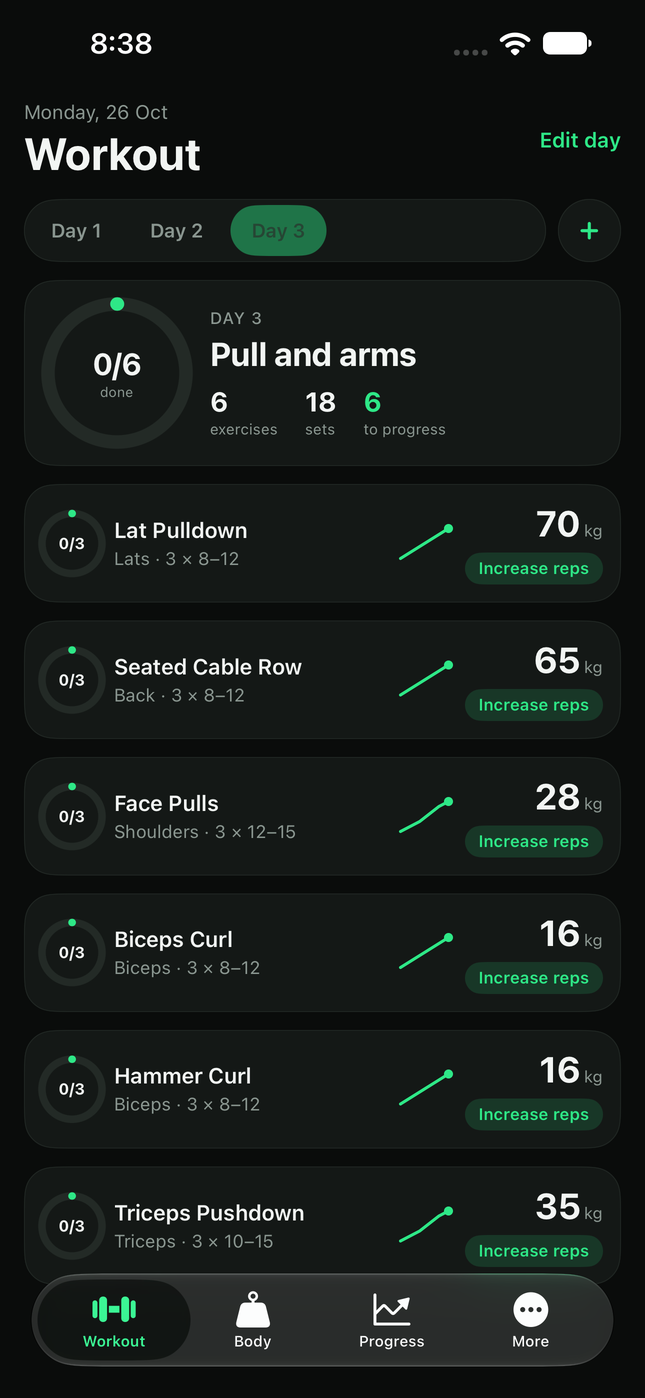
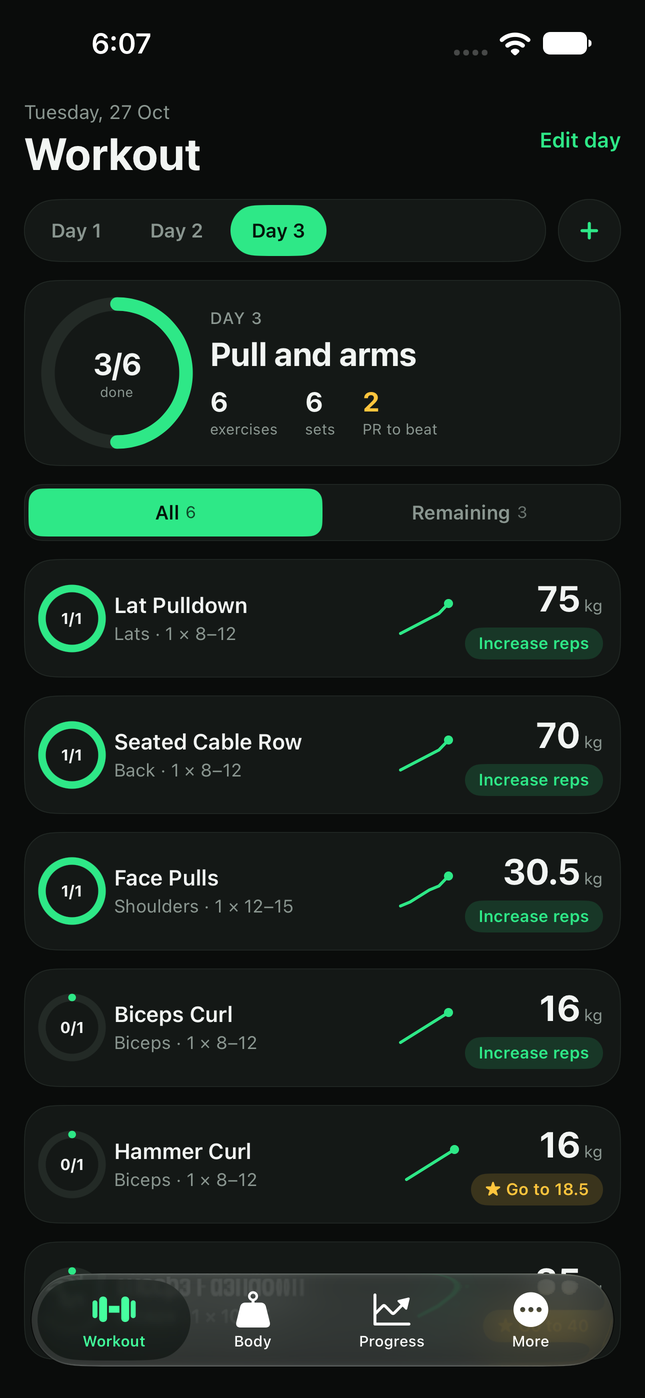
Rewrite the README with a quick start, usage, configuration and reference, and retake the screenshots
The screenshots show the current app (All / Remaining, PR banner, warm-ups, arrows, form question,
daily calories, percent from target), taken on an iPhone 15 Pro Max simulator with generated
sample data. A UI test drives the workout-flow screens so they can be retaken.

diff --git a/appUITests/ReadmeScreenshotsUITests.swift b/appUITests/ReadmeScreenshotsUITests.swift
@@ -1,0 +1,64 @@
+import XCTest
+
+/// Takes the workout-flow screenshots used in the README (the other screens come from `ScreenTourUITests`).
+/// It expects a sample database, not real data: copy one to /Users/Shared/fitness-ui-seed.sqlite and run
+///   xcodebuild test ... -only-testing:FitnessAppUITests/ReadmeScreenshotsUITests
+/// then export the attachments with: xcrun xcresulttool export attachments --path <bundle>.xcresult --output-path <dir>
+final class ReadmeScreenshotsUITests: XCTestCase {
+    private var app: XCUIApplication!
+
+    override func setUp() {
+        continueAfterFailure = false
+        app = XCUIApplication()
+        app.launchArguments = UITestSeed.launchArguments
+        app.launch()
+    }
+
+    private func snap(_ name: String) {
+        let attachment = XCTAttachment(screenshot: app.screenshot())
+        attachment.name = name
+        attachment.lifetime = .keepAlways
+        add(attachment)
+    }
+
+    func testWorkoutFlowScreens() {
+        XCTAssertTrue(app.buttons["day-3"].waitForExistence(timeout: 30))
+        app.buttons["day-3"].tap()
+        XCTAssertTrue(app.buttons["filter-remaining"].waitForExistence(timeout: 10))
+        sleep(1)
+        snap("r01-workout-all")
+
+        app.buttons["filter-remaining"].tap()
+        sleep(1)
+        snap("r02-workout-remaining")
+        app.buttons["filter-all"].tap()
+
+        let card = app.buttons["exercise-card-Triceps Pushdown"]
+        for _ in 0..<4 where !(card.exists && card.isHittable) { app.swipeUp() }
+        card.tap()
+        XCTAssertTrue(app.descendants(matching: .any)["pr-banner"].waitForExistence(timeout: 10))
+        sleep(1)
+        snap("r03-exercise-pr")
+
+        let addSet = app.buttons["add-set-button"]
+        for _ in 0..<8 where !addSet.isHittable { app.swipeUp() }
+        app.swipeUp()
+        snap("r04-exercise-log")
+
+        for _ in 0..<4 where !addSet.isHittable { app.swipeDown() }
+        addSet.tap()
+        XCTAssertTrue(app.textFields["weight-field"].waitForExistence(timeout: 5))
+        sleep(1)
+        snap("r05-add-set")
+
+        // The plan is 10 to 15 reps and the form starts at 13: two arrows reach the top of the range.
+        app.buttons["reps-field-plus"].tap()
+        app.buttons["reps-field-plus"].tap()
+        app.buttons["save-set-button"].tap()
+        XCTAssertTrue(app.buttons["form-yes"].waitForExistence(timeout: 10))
+        sleep(1)
+        snap("r06-form-question")
+        app.buttons["form-yes"].tap()
+        sleep(1)
+    }
+}

diff --git a/README.md b/README.md
@@ -1,41 +1,211 @@
-# Fitness app (iPhone, offline)
+# Offline Fitness Tracker for iPhone: workouts, PRs, body and calories
 
-An offline iPhone app that replaces a weekly "notes → spreadsheet → Python notebook → screenshot" routine.
-Log sets on the phone, get the next workout for each training day, track body weight, calories and measurements.
-Everything lives in one SQLite file on the phone. No account, no backend.
+![Platform](https://img.shields.io/badge/platform-iOS%2016%2B-black)
+![Swift](https://img.shields.io/badge/Swift-SwiftUI%20%2B%20SQLite-F05138)
+![Data](https://img.shields.io/badge/data-offline%2C%20one%20SQLite%20file-2ee887)
+![Backend](https://img.shields.io/badge/backend-none-lightgrey)
 
-**Features:** workout per day with working weight, an All / Remaining filter, main and warm-up sets and a progression recommendation; PRs (top of the rep range with a clean-form check) shown in gold with the next weight worked out from the estimated 1RM; exercise screen with the aim, a best-set line chart and inline set logging; muscle diagram showing which muscles an exercise trains (automatic, editable per exercise); deload mode (display only) and an option to ignore deload sessions in progress; plan and exercise-library editing; calorie target with macros; measurement progress (direction-aware); volume per muscle; database import, export and upgrade.
+> An offline iPhone app that replaces a weekly "notes → spreadsheet → Python notebook → screenshot" routine: log sets on the phone, get the next weight for every exercise, spot PRs at a glance, and track body weight, calories and measurements. No account, no server.
 
-## Screens
+All screenshots below are the real app on an iPhone 15 Pro Max (iOS simulator), filled with **generated sample data** (invented weights, reps and measurements), not anyone's real training data.
 
-Screenshots of the real app on an iPhone 15 Pro Max (iOS simulator), filled with generated sample data (invented weights, reps and measurements), not anyone's real training data.
+### Training
 
 <table>
   <tr>
-    <td align="center"><img src="docs/screenshots/01-workout.png" width="170"><br><sub><b>Workout</b><br>pick a day, see every exercise with its target</sub></td>
-    <td align="center"><img src="docs/screenshots/02-exercise.png" width="170"><br><sub><b>Exercise</b><br>weight to lift, warm-ups, best-set chart, how to</sub></td>
-    <td align="center"><img src="docs/screenshots/03-log-and-history.png" width="170"><br><sub><b>Log sets</b><br>muscles worked, set logging, earlier sessions to edit</sub></td>
-    <td align="center"><img src="docs/screenshots/04-muscle-editor.png" width="170"><br><sub><b>Muscle editor</b><br>pick a whole region or single muscles</sub></td>
-    <td align="center"><img src="docs/screenshots/05-body.png" width="170"><br><sub><b>Body</b><br>calorie target, weekly weight, daily calories</sub></td>
+    <td align="center"><img src="docs/screenshots/01-workout.png" width="170"><br><sub><b>Workout day</b><br>every exercise with its target; <i>All</i> shows everything</sub></td>
+    <td align="center"><img src="docs/screenshots/02-remaining.png" width="170"><br><sub><b>Remaining</b><br>hides what is already logged today</sub></td>
+    <td align="center"><img src="docs/screenshots/03-exercise-pr.png" width="170"><br><sub><b>PR banner</b><br>gold banner, next weight, estimated 1RM, gold ★ dot</sub></td>
   </tr>
   <tr>
-    <td align="center"><img src="docs/screenshots/06-body-calories.png" width="170"><br><sub><b>Body, further down</b><br>macros, weigh-ins, calories by day</sub></td>
-    <td align="center"><img src="docs/screenshots/07-progress.png" width="170"><br><sub><b>Progress</b><br>measurements against targets, volume per muscle</sub></td>
-    <td align="center"><img src="docs/screenshots/08-more.png" width="170"><br><sub><b>More</b><br>backup, deload, history start</sub></td>
-    <td align="center"><img src="docs/screenshots/09-edit-plan.png" width="170"><br><sub><b>Edit plan</b><br>days, exercises, sets and rep ranges</sub></td>
-    <td align="center"><img src="docs/screenshots/10-library.png" width="170"><br><sub><b>Exercise library</b><br>names, muscle groups, how-to</sub></td>
+    <td align="center"><img src="docs/screenshots/04-log-sets.png" width="170"><br><sub><b>Log sets</b><br>warm-ups as reference, one main set, earlier sessions to edit</sub></td>
+    <td align="center"><img src="docs/screenshots/05-add-set.png" width="170"><br><sub><b>Add set</b><br>− / + on weight and reps, reps start mid-range</sub></td>
+    <td align="center"><img src="docs/screenshots/06-form-question.png" width="170"><br><sub><b>Clean-form check</b><br>asked once when you reach the top reps</sub></td>
+  </tr>
+  <tr>
+    <td align="center"><img src="docs/screenshots/07-muscle-editor.png" width="170"><br><sub><b>Muscles worked</b><br>pick a whole region or single muscles</sub></td>
+    <td align="center"><img src="docs/screenshots/12-edit-plan.png" width="170"><br><sub><b>Edit plan</b><br>main sets, warm-up sets, rep range</sub></td>
+    <td align="center"><img src="docs/screenshots/13-library.png" width="170"><br><sub><b>Exercise library</b><br>names, muscle groups, how-to</sub></td>
   </tr>
 </table>
 
-The muscle diagram is my own drawing, generated from `tools/anatomy/figure.js` (`node tools/anatomy/generate-swift.js` writes the Swift data file).
+### Body, progress and settings
+
+<table>
+  <tr>
+    <td align="center"><img src="docs/screenshots/08-body.png" width="170"><br><sub><b>Body</b><br>calorie target, weekly weight, what your weight says</sub></td>
+    <td align="center"><img src="docs/screenshots/09-body-calories.png" width="170"><br><sub><b>Daily calories</b><br>default from a date, edit any day</sub></td>
+    <td align="center"><img src="docs/screenshots/10-progress.png" width="170"><br><sub><b>Progress</b><br>measurements with % from target, volume per muscle</sub></td>
+    <td align="center"><img src="docs/screenshots/11-more.png" width="170"><br><sub><b>More</b><br>backup, deload, history start, past data</sub></td>
+  </tr>
+</table>
+
+## Features
+
+- **Workout per day:** working weight, a progression recommendation, and an **All / Remaining** filter so the last exercises are not many scrolls away.
+- **Main and warm-up sets:** one main set to failure is logged and counted (the circle reads 0/1); warm-ups (0 to 3) are shown with weights as a reference and never logged.
+- **PRs:** reaching the top of the rep range with clean form is a PR. It shows as a gold banner, a gold ★ on the best-set chart and a gold chip on the list, with the **next weight worked out from the estimated 1RM**.
+- **Fast logging:** the reps start in the middle of the range, − / + buttons on weight (2.5 kg) and reps, log for another day, edit or delete any set, look up and fix any past day.
+- **Muscle diagram:** which muscles an exercise trains, automatic and editable per exercise.
+- **Body:** weigh-ins, calorie target with macros, daily calories with a default that starts on a date, and the actual deficit or surplus from your weight trend.
+- **Progress:** measurements against targets (grow or reduce, % from target, colour tolerance) and volume per muscle.
+- **Deload mode** (display only, scales both ends of the rep range), plan and library editing, database import, export and automatic upgrade.
+
+## Quick Start
+
+For developers. You need a recent Xcode (Swift 5.9 or newer, iOS 16+ SDK) and [XcodeGen](https://github.com/yonaskolb/XcodeGen) (`brew install xcodegen`).
+
+```bash
+git clone https://github.com/ihiteshmodi/iphone-fitnessapp.git
+cd iphone-fitnessapp
+
+swift test                # logic tests, no simulator needed
+# Expected (last lines): Executed 431 tests, with 10 tests skipped and 0 failures (0 unexpected)
+#   the 10 skipped need your own seeded database (see "Configuration")
+
+xcodegen generate         # creates FitnessApp.xcodeproj from project.yml
+# Expected: Created project at .../FitnessApp.xcodeproj
+
+open FitnessApp.xcodeproj # pick an iPhone simulator and press Run
+# Expected: the app opens on "Set up your data"; choose "Start empty" to try it
+```
+
+## Usage
+
+### Log a workout day (in the app)
+
+1. **Workout** tab: pick a day. Each card shows the working weight and a chip: green *Increase reps*, amber *Same weight, clean*, or gold *★ Go to 72.5*.
+2. Tap **Remaining** to hide the exercises you have finished.
+3. Open an exercise. Follow the warm-up weights, then tap **+ Add set**. Weight and reps have − / + buttons; tap a number to type it.
+4. If the reps reach the top of the range, the app asks **"Did every rep have a full contraction?"**. Yes counts as a PR; No means the same weight next time.
+
+Worked example (rep range 10 to 15, last session 35 kg × 15, answered Yes):
+
+```text
+Banner:        ★ PR last time · clean form — Increase weight to 40 kg
+Est. 1RM:      35 × (1 + 15 / 30) = 52.5 kg
+Next weight:   52.5 ÷ (1 + 10 / 30) = 39.4 → rounded to the nearest 2.5 kg = 40 kg
+Do today:      40 kg   (warm-ups at 75% = 30 kg and 90% = 36 kg when 2 warm-up sets are planned)
+```
+
+### Back up or inspect your data
+
+The live file is `Documents/fitness.sqlite` inside the app. Use **More → Export database (.sqlite)**, or in LiveContainer open the app's data folder. Then:
+
+```bash
+sqlite3 fitness.sqlite "select count(*) from set_logs;"
+# one number: how many sets you have logged
+sqlite3 fitness.sqlite "select performed_on, weight_kg, reps from set_logs order by id desc limit 1;"
+# one row, for example: 2026-10-26|35.0|15
+```
+
+If the Files picker will not select the file inside LiveContainer, copy it into the app's `Documents` folder: it is listed on the first screen and under **More → Backup**.
+
+### Build a seeded database from a spreadsheet
+
+```bash
+cd tools/seed-db
+python3 -m venv .venv && .venv/bin/pip install openpyxl pandas pytest   # once
+.venv/bin/python build_seed_db.py --xlsx "path/to/Data File.xlsx"
+# Wrote .../output/fitness.seed.sqlite
+.venv/bin/python -m pytest
+# 69 passed
+```
+
+### Build an unsigned .ipa (for LiveContainer)
+
+```bash
+xcodegen generate
+xcodebuild -project FitnessApp.xcodeproj -scheme FitnessApp -configuration Release -sdk iphoneos \
+  -destination 'generic/platform=iOS' -derivedDataPath .derived-device \
+  CODE_SIGNING_ALLOWED=NO CODE_SIGNING_REQUIRED=NO CODE_SIGN_IDENTITY="" build
+# ** BUILD SUCCEEDED **
+mkdir -p Payload && cp -R .derived-device/Build/Products/Release-iphoneos/FitnessApp.app Payload/ && zip -qry FitnessApp.ipa Payload
+```
+
+### Run the simulator UI tests
+
+```bash
+SIM_UDID=<an iPhone simulator id> scripts/run-ui-tests.sh WorkoutFlowUITests
+# ALL 7 UI TESTS PASSED  (...)
+```
+
+The runner shows a live progress bar and stops when the tests finish. It uses `output/fitness.seed.sqlite`, never your own data.
+
+## Configuration
+
+There are no environment variables or secrets. The app is configured by settings stored in the database (change them in the app) and by two optional build-time files.
+
+### Settings (stored in the `settings` table)
+
+| Setting | Where in the app | Default | Required |
+|---|---|---|---|
+| Count history from | More → Progress history | `2026-08-31` (seeded) | No |
+| Name days by | More → Plan / Edit plan | numbers | No |
+| Deload on | More → Deload week | off | No |
+| Deload weight multiplier | More → Deload week | `1` | No |
+| Deload reps multiplier (both ends of the rep range) | More → Deload week | `0.75` | No |
+| Ignore deload sessions in progress | More → Deload week | on | No |
+| Protein g per lb | Body → Macro rules | `1.2` | No |
+| Fat % of calories | Body → Macro rules | `25` | No |
+| Measurement tolerance | Progress → ±3% | `3` % (amber beyond it, red beyond 10%) | No |
+
+### Build-time and launch options
+
+| Option | What it does | Default | Required |
+|---|---|---|---|
+| `output/fitness.sqlite` | If present at build time it is bundled and offered as **Load my data** on first launch | absent (button hidden) | No |
+| `output/fitness.seed.sqlite` | Test fixture built from the spreadsheet; used by tests, UI tests and the screenshot tour | absent (10 parity tests skip) | No |
+| `-UITestImportPath <file>` | Simulator tests only: import this database at launch | unset | No |
+| `-UITestInitialTab <0-3>` | Simulator tests only: start on a tab (0 Workout, 1 Body, 2 Progress, 3 More) | `0` | No |
+
+## Reference
+
+This app has **no server and no HTTP API**. This section documents the local database and the rules the screens follow.
+
+### Database tables (schema version 7)
+
+| Table | Holds |
+|---|---|
+| `exercises` | Library: name, muscle group, how-to |
+| `plan_days`, `plan_entries` | Training days and their exercises: main `sets`, `warmup_sets` (0 to 3), min and max reps |
+| `set_logs` | Every logged set: date, exercise, weight kg, reps, deload flag |
+| `form_checks` | Clean-form answer per exercise per day (1 clean, 0 not clean) |
+| `exercise_muscles` | Muscles chosen per exercise (no rows means automatic) |
+| `body_weights`, `body_measurements`, `measurement_targets` | Weigh-ins, readings, targets with a grow or reduce direction |
+| `calorie_defaults`, `calorie_entries` | Calories per day from a start date, and single-day overrides |
+| `settings` | The settings above |
+
+The schema lives in `src/shared/database/schema.sql`. Older files are upgraded in place when opened (versions 1 to 6 are covered by tests).
+
+### Rules
+
+| Rule | Definition |
+|---|---|
+| Estimated 1RM | Epley: `weight × (1 + reps ÷ 30)` |
+| PR | A session reaching the top of the rep range with clean form (older sessions without an answer count as clean). Not during deload |
+| Next weight after a PR | `1RM ÷ (1 + min reps ÷ 30)`, rounded to the nearest 2.5 kg, always above the weight lifted |
+| Reps in Add set | Start at `ceil((min + max) ÷ 2)`, for example 8 to 16 gives 12 |
+| Warm-ups | 1: 75%. 2: 75% and 90%. 3: 60%, 75% and 90% of the working weight |
+| Calorie target | Maintenance = calories eaten minus the daily surplus implied by the change between the last two 7-day average weights (3,500 kcal per lb). Target = maintenance × goal multiplier |
+| Measurement colour | Only the wrong direction counts: within the tolerance is green, beyond it amber, beyond 10% red |
+
+### Errors the app shows (validation messages)
+
+| Message | When |
+|---|---|
+| `Reps must be at least 1` / `Weight cannot be negative` | Adding or editing a set |
+| `Pick today or an earlier date` | Logging or editing a set for a future day |
+| `Warm-up sets must be between 0 and 3` | Saving a plan entry |
+| `Min reps cannot exceed max reps` | Saving a plan entry |
+| `Tolerance must be between 0% and 50%` | Changing the measurement tolerance |
+| `Log body weight for both of the last two weeks` | Calorie target without enough weigh-ins |
 
 ## Your data is not in this repository
 
-The repository is public, so personal data is git-ignored: the spreadsheet, the notebook, the seeded database
-(`output/fitness.sqlite`) and the `.ipa` (it embeds the database). Without a seeded database the app still works:
-choose **Start empty** on first launch.
+The repository is public, so personal data is git-ignored: the spreadsheet, the notebook, your exported database (`output/fitness.sqlite`), the test fixture and the `.ipa` (it embeds the database). Without a database the app still works: choose **Start empty** on first launch.
 
-## Layout
+## Project layout
 
 | Path | What |
 |---|---|
@@ -43,35 +213,10 @@ choose **Start empty** on first launch.
 | `src/modules/<capability>/<feature>/` | Domain logic per feature (planning, logging, nutrition, progress, data) |
 | `tests/<capability>/<feature>/` | `.feature` scenarios and the XCTest specs that mirror them |
 | `app/` | SwiftUI app (screens, theme, view models) |
-| `appUITests/` | Simulator UI tests |
-| `tools/seed-db/` | Python tool that builds the seeded database from the spreadsheet |
-| `docs/design/` | Impact map and HTML mockups of every screen |
+| `appUITests/` | Simulator UI tests and the screenshot tours |
+| `tools/seed-db/` | Python tool that builds a database from the spreadsheet |
+| `tools/anatomy/` | The muscle diagram (my own drawing); `node tools/anatomy/generate-swift.js` writes the Swift data file |
+| `docs/design/` | Impact maps and HTML mockups of every screen |
 | `scripts/run-ui-tests.sh` | UI test runner with a live progress bar |
 
-## Everyday commands
-
-```sh
-swift test                                   # logic tests, no simulator needed
-cd tools/seed-db && python -m pytest         # seed tool tests (needs its own venv)
-xcodegen generate                            # creates FitnessApp.xcodeproj from project.yml
-scripts/run-ui-tests.sh WorkoutFlowUITests   # one UI test class, live progress, Ctrl-C to stop
-```
-
-## Build an unsigned .ipa (for LiveContainer)
-
-```sh
-xcodegen generate
-xcodebuild -project FitnessApp.xcodeproj -scheme FitnessApp -configuration Release -sdk iphoneos \
-  -destination 'generic/platform=iOS' -derivedDataPath .derived-device \
-  CODE_SIGNING_ALLOWED=NO CODE_SIGNING_REQUIRED=NO CODE_SIGN_IDENTITY="" build
-mkdir -p Payload && cp -R .derived-device/Build/Products/Release-iphoneos/FitnessApp.app Payload/ && zip -qry FitnessApp.ipa Payload
-```
-
-If `output/fitness.sqlite` exists at build time it is bundled and offered as **Load my data** on first launch.
-In LiveContainer, enable **Fix File Picker** for the app if the file picker will not select files.
-
-## Database file
-
-The live file is `Documents/fitness.sqlite` inside the app. Copy it out (Files app, or LiveContainer's
-"Open Data Folder") to back it up, or use **Export** in the More tab. Older database versions are upgraded
-automatically on open.
+There is no `LICENSE` file yet, so by default all rights are reserved.
